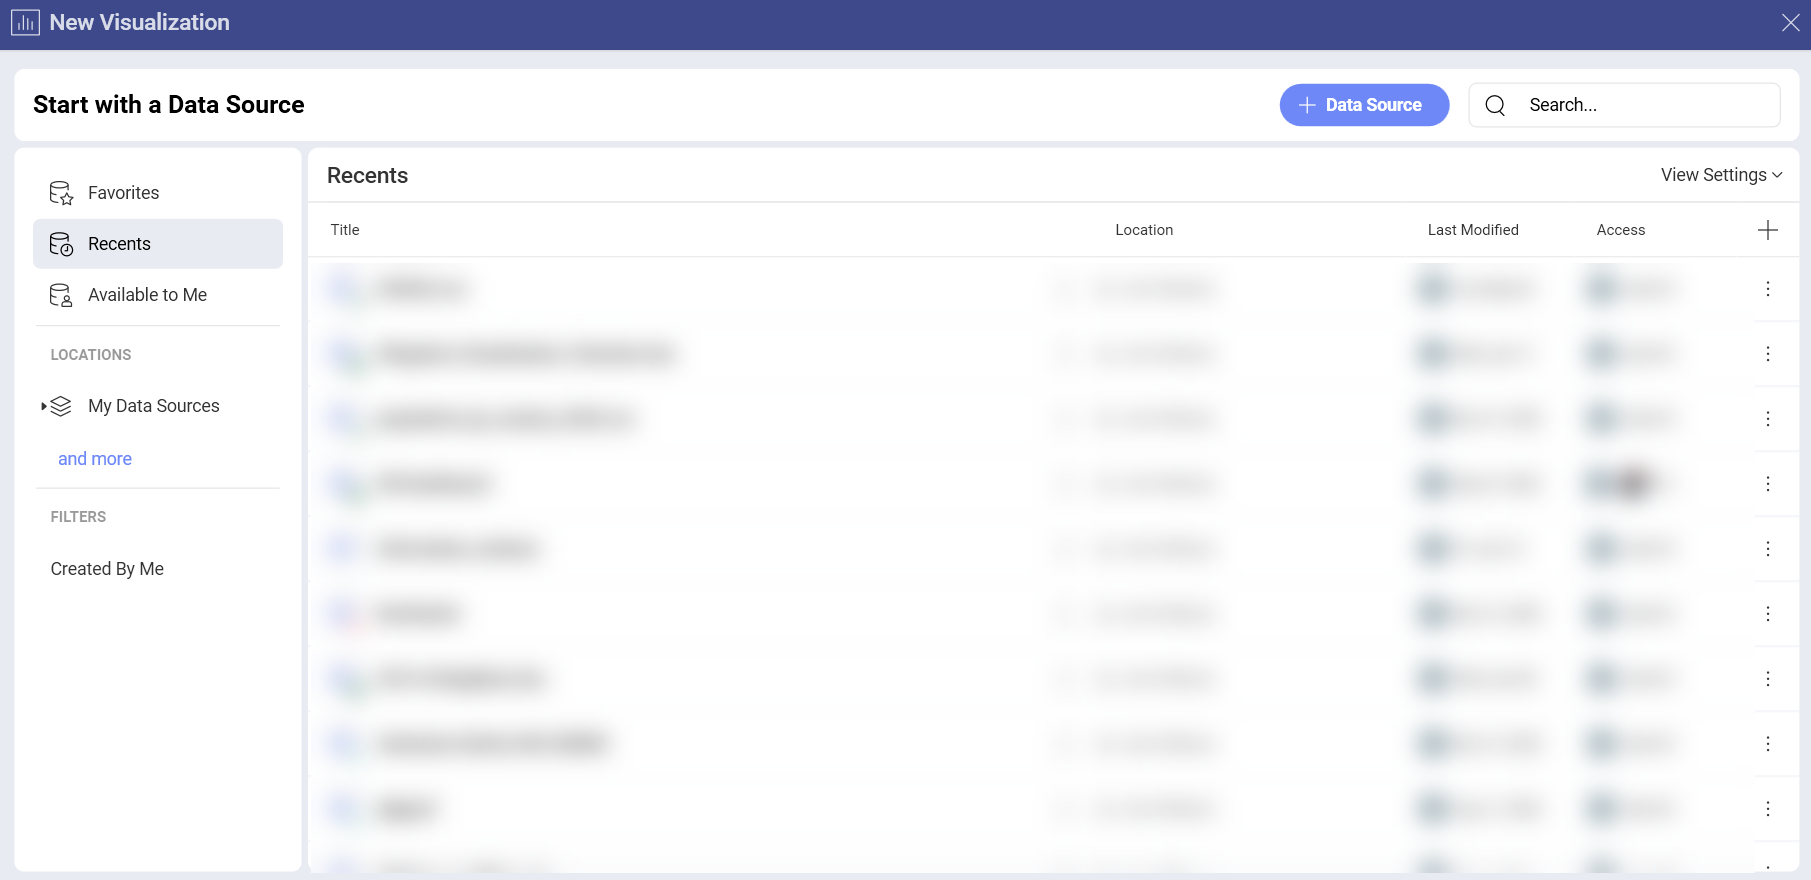
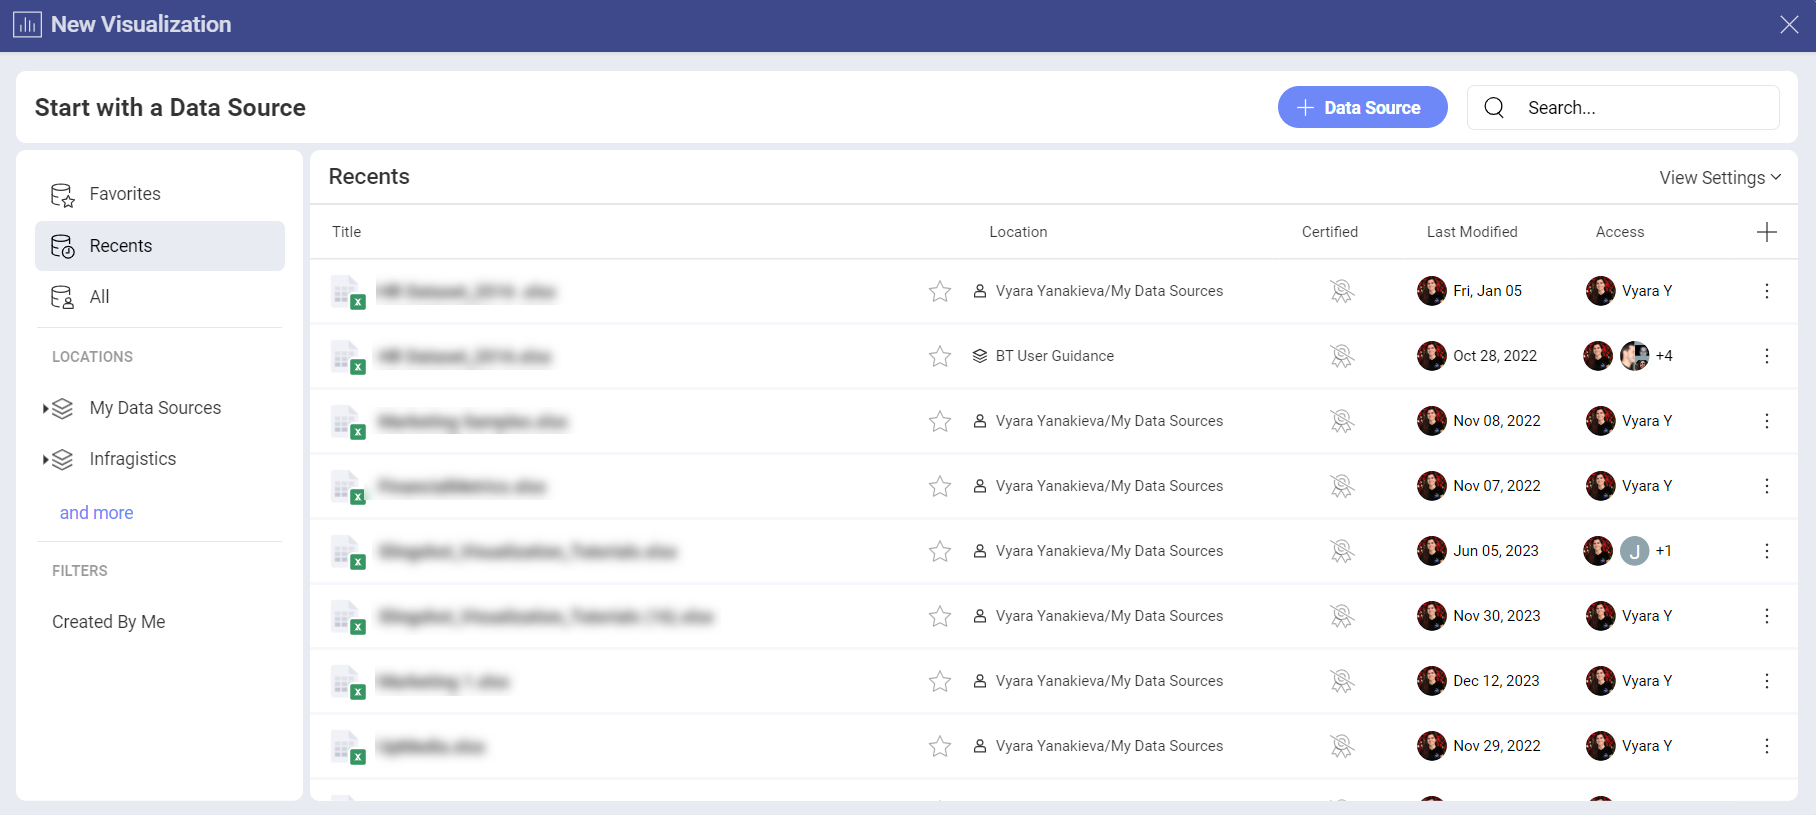
minor fixes

diff --git a/docfx/en/docs/analytics/filters/dashboard-filters-properties.md b/docfx/en/docs/analytics/filters/dashboard-filters-properties.md
@@ -17,7 +17,7 @@ In order to add a new dashboard filter:
     can configure or change it using the overflow menu next to the data
     source's name.
 
-  <img src="images/dashboard-filter-data-source-menu.png" alt="Selecting Dashboard Filter data source menu" class="responsive-img" width="80%"/>
+  <img src="images/dashboard-filter-data-source-menu.png" alt="Selecting Dashboard Filter data source menu" class="responsive-img" width="90%"/>
 
 3.  Choose which dataset to use as a dashboard filter and click/tap on
     *Select Data*.
@@ -26,7 +26,7 @@ In order to add a new dashboard filter:
 
 You will be able to change the following settings for the filter:
 
-<img src="images/dashboard-filter-dialog.png" alt="Dashboard Filter settings menu" class="responsive-img" width="50%">
+<img src="images/dashboard-filter-dialog.png" alt="Dashboard Filter settings menu" class="responsive-img" width="60%">
 
 - Title. The title for the dashboard filter, which will be displayed right under the dashboard title. By default, this is the name of the field that will be used as a filter.</th>
 
@@ -58,13 +58,13 @@ Analytics supports the selection of multiple dashboard filter values
 simultaneously. This is meant to enable side by side comparison between different elements in a collection. For instance, in the *HR Dashboard* dashboard you can compare the hires and absences over time of different
 offices by enabling multiple selection.
 
-<img src="images/multiple-selection-dashboard-filters.png" alt="Filters multiple selections applied to a dashboard" class="responsive-img" width="45%"/>
+<img src="images/multiple-selection-dashboard-filters.png" alt="Filters multiple selections applied to a dashboard" class="responsive-img" width="50%"/>
 
 In order to **enable "Multiple Selection"**, you must switch the
 dashboard to *Edit* mode ⇒ choose *Edit* from the overflow menu of a
 dashboard filter ⇒ *Selection* ⇒ tick *Multiple Selection* checkbox.
 
-<img src="images/multiple-selection-option-dashboard-filter-dialog.png" alt="Enabling dashboard filters multiple selections" class="responsive-img" width="60%"/>
+<img src="images/multiple-selection-option-dashboard-filter-dialog.png" alt="Enabling dashboard filters multiple selections" class="responsive-img" width="90%"/>
 
 <a name='required-selection'></a>
 ## Required Selection
@@ -80,7 +80,7 @@ In order to **enable "Required Selection"**, you must switch the
 dashboard to *Edit* mode ⇒ choose *Edit* from the overflow menu of a
 dashboard filter ⇒ *Selection* ⇒ tick *Required Selection* checkbox.
 
-<img src="images/required-selection-option-filters.png" alt="Enabling dashboard filters required selection" class="responsive-img" width="60%"/>
+<img src="images/required-selection-option-filters.png" alt="Enabling dashboard filters required selection" class="responsive-img" width="90%"/>
 
 <a name='data-filters'></a>
 ## Data Filters
@@ -113,12 +113,12 @@ filter and have the dashboard filter show only the employees in the
 
 3.  Click/tap on *Select a Field* and choose *Office* from the list.
 
-  <img src="images/dashboard-filters-select-data-filter-field.png" alt="Selecting a field for a data filter in the dashboard filter settings menu" class="responsive-img" width="60%"/>
+  <img src="images/dashboard-filters-select-data-filter-field.png" alt="Selecting a field for a data filter in the dashboard filter settings menu" class="responsive-img" width="90%"/>
 
 4.  In the following dialog, select the filter type you want to apply
     (choose *Select Values* for the purposes of this example):
 
-  <img src="images/filter-types.png" alt="Dashboard Filters Filter type option" class="responsive-img" width="60%"/>
+  <img src="images/filter-types.png" alt="Dashboard Filters Filter type option" class="responsive-img" width="90%"/>
 
 5.  Choose *London, UK* from the list and click/tap on the *Create Filter*
     button.
@@ -127,7 +127,7 @@ filter and have the dashboard filter show only the employees in the
 
 There are some specifics when configuring an MS Analysis dashboard filter.
 
-<img src="images/microsoft-analysis-services-dashboard-filter.png" alt="Dashboard Filter dialog when configuring an SSRS filter" class="responsive-img" width="60%"/>
+<img src="images/microsoft-analysis-services-dashboard-filter.png" alt="Dashboard Filter dialog when configuring an SSRS filter" class="responsive-img" width="90%"/>
 
  1. **Displayed Element** - you can select a *Dimension*, *Hierarchy* or *Level* data field to display dashboard filter values, but not a *Measure* data field. 
 

diff --git a/docfx/en/docs/certifications.md b/docfx/en/docs/certifications.md
@@ -14,7 +14,7 @@ If you are a user with a personal account, you will not be able to use certifica
 
 Among the data sources or dashboards of a workspace, you will find both certified and uncertified ones. When a data source or dashboard is certified, you will see a golden, silver or bronze colored badge next to it (see the screenshot below). 
 
-<img src="../images/certified-data-source.png" alt="An excel file with a gold badge located in the certified column" class="responsive-img" width="80%"/>
+<img src="../images/certified-data-source.png" alt="An excel file with a gold badge located in the certified column" class="responsive-img" width="90%"/>
 
 If you don't see whether a data source or dashboard is certified or not, select the plus icon <img src="../images/plus-icon-48.png" alt="the plus icon used in Analytics" width="24px" height="24px" /> at the right top of the list. Make sure the box for the *Certified* column is checked.  
 
@@ -23,12 +23,15 @@ If you don't see whether a data source or dashboard is certified or not, select 
 Certification helps users find the data that is recommended and verified by their organization. That's why **certifiers** can be: 
 
 * <img src="../images/organization-icon.png" alt="the org workspace icon" width="24px" height="24px" /> Organization owners.
+
 * Any user who is authorized by an Organization owner
 
 To see who can certify data sources: 
 
 1. Open the Organization workspace settings by selecting the three dots <img src="../images/overflow-icon.png" alt="the plus icon used in Analytics" width="24px" height="24px" /> next to it.
+
 2. Select <img src="../images/settings-icon.png" alt="the plus icon used in Analytics" width="24px" height="24px" />*Organization Settings*. 
+
 3. Go to *Data Catalog*. 
 
 Here you will find the three certification levels, their names and the users, who can certify.
@@ -36,16 +39,20 @@ Here you will find the three certification levels, their names and the users, wh
 If you are an *owner* in the Organization, you can: 
 
 * Assign yourself as a certifier to any certification level.
+
 * Add other users as certifiers - you can assign owners, members, viewers and even users outside of your Organization.
+
 * Rename the certificates. By default, the certification levels are "*gold*", "*silver*" and "*bronze*". You can give them more descriptive names such as "Sales", "Marketing", "RND", etc.  
 
 Users, who are not owners, can request permission to become certifiers. To do this: 
 
 1. Go to the Data Sources list in any workspace or in your **My Analytics**.
+
 2. Select the badge in the *Certified* column of any data source. 
+
 3. Click/tap *Request Permission* (see the screenshot below).
 
-    <img src="../images/not-certified-message.png" alt="The Request permission button for the certificate" class="responsive-img" width="80%" />
+<img src="../images/not-certified-message.png" alt="The Request permission button for the certificate" class="responsive-img" width="90%" />
 
 4. An email will be sent to all Organization owners notifying them that the users asks to be authorized to certify data sources or dashboards. 
 
@@ -54,7 +61,9 @@ Users, who are not owners, can request permission to become certifiers. To do th
 Each data source or dashboard can be certified individually in the workspace where it lives. To certify follow the steps below:
 
 1. Go to the <img src="../images/workspace-icon.png" alt="the workspace icon used in Analytics" width="24px" height="24px" /> workspace where you can find the data source or dashboard. 
+
 2. Select the *Data Sources* or *Dashboards* tab. 
+
 3. Click/tap the <img src="../images/not-certified-icon.png" alt="the data sources icon used in Analytics" width="24px" height="24px" /> badge icon for the data source or dashboard you want to certify and choose a badge from the dropdown menu. 
 
 The certificates are hierarchical. This means that certifiers who are with <img src="../images/gold-badge-icon.png" alt="the gold badge icon used in Analytics" width="24px" height="24px" /> *Gold* will also see the <img src="../images/silver-badge-icon.png" alt="the silver badge icon used in Analytics" width="24px" height="24px" /> *Silver* and <img src="../images/bronze-badge-icon.png" alt="the bronze badge icon used in Analytics" width="24px" height="24px" /> *Bronze* badges available in the dropdown menu. And *Bronze* certifiers will only see the bronze badge available. 

diff --git a/docfx/en/docs/analytics/data-visualizations/fields/calculated-fields/overview.md b/docfx/en/docs/analytics/data-visualizations/fields/calculated-fields/overview.md
@@ -29,11 +29,11 @@ aggregations. This means in order to apply a certain formula, Analytics will go 
 To add a new pre-calculated field, click/tap the **+ button** in the
 *Fields* panel and choose **Calculated Field**:
 
-<img src="images/calculated-field-option.png" alt="Pre-calculated field option" class="responsive-img" width="85%"/>
+<img src="images/calculated-field-option.png" alt="Pre-calculated field option" class="responsive-img" width="90%"/>
 
 The *New Calculated Field* screen will open:
 
-<img src="images/new-calculated-field-dialog.png" alt="New calculated field dialog" class="responsive-img" width="85%"/>
+<img src="images/new-calculated-field-dialog.png" alt="New calculated field dialog" class="responsive-img" width="90%"/>
 
 Here you will need to:
 
@@ -49,7 +49,7 @@ Here you will need to:
 The new pre-calculated field will show up at the bottom of your *Fields*
 list:
 
-<img src="images/new-calculated-field-visualization-example.png" alt="New calculated field shown in the column placeholder and in the visualization" class="responsive-img" width="85%"/>
+<img src="images/new-calculated-field-visualization-example.png" alt="New calculated field shown in the column placeholder and in the visualization" class="responsive-img" width="90%"/>
 
 In the example above, the new calculated field is used with a grid
 visualization where no aggregation is being applied on the data fields.
@@ -70,12 +70,12 @@ To create a post calculated field you will need to:
 1.  Create a visualization (or a *Pivot table*) by adding fields from
     your data source in the *Data editor*.
 
-    <img src="images/post-calculated-field-example.png" alt="Post calculated fields in the Data editor" class="responsive-img" width="85%"/>
+  <img src="images/post-calculated-field-example.png" alt="Post calculated fields in the Data editor" class="responsive-img" width="90%"/>
 
 2.  Click/tap the *F(x)* button next to *Values* to open the *New
     Calculated Field* screen:
 
-    <img src="images/post-calculated-field-new-calculated-field-dialog.png" alt="Post calculated field new calculated field screen" class="responsive-img" width="85%"/>
+  <img src="images/post-calculated-field-new-calculated-field-dialog.png" alt="Post calculated field new calculated field screen" class="responsive-img" width="90%"/>
 
 3.  Give a name to your new calculated field and apply a formula to the
     summarized value(s). Pay attention that the list of *Values*
@@ -89,7 +89,7 @@ the *+* button next to *Values*. Since post-calculated fields are
 created only by using aggregated values, you will first need to select
 an aggregation from the dropdown list to be executed on the data field.
 
-<img src="images/post-calculated-field-new-calculated-field-dialog-adding-fields.png" alt="Adding fields in the calculated field screen" class="responsive-img" width="85%"/>
+<img src="images/post-calculated-field-new-calculated-field-dialog-adding-fields.png" alt="Adding fields in the calculated field screen" class="responsive-img" width="90%"/>
 
 You can also skip *step 1*, create your post-calculated fields first or
 use only post-calculated fields in your visualization.

diff --git a/docfx/en/docs/analytics/data-visualizations/fields/field-filters-rules.md b/docfx/en/docs/analytics/data-visualizations/fields/field-filters-rules.md
@@ -10,7 +10,7 @@ order to do so, you will need to add a field to the **Data Filters**
 placeholder in the lower section of the data editor. Then, select a field
 from the dropdown menu to access the *Data Filter* window.
 
-<img src="images/data-filter-visualization-editor.png" alt="Adding data filter fields list" class="responsive-img" width="70%"/>
+<img src="images/data-filter-visualization-editor.png" alt="Adding data filter fields list" class="responsive-img" width="85%"/>
 
 <a name='empty-values'></a>
 ## Filter Empty Values
@@ -123,5 +123,5 @@ entered in a text box in the same position.
 
 You can filter your *Values* by [aggreggation](https://www.slingshotapp.io/en/help/docs/analytics/data-visualizations/fields/calculated-fields/aggregation). Then this value will appear with the same aggregation in the list of fields in the **Data Filters** placeholder.
 
-<img src="images/data-filters-values-list.png" alt="Data Filters Filtering in the Data Editor" class="responsive-img" width="80%"/>
+<img src="images/data-filters-values-list.png" alt="Data Filters Filtering in the Data Editor" class="responsive-img" width="85%"/>
 

diff --git a/docfx/en/docs/analytics/data-visualizations/visualization-types/combo-charts.md b/docfx/en/docs/analytics/data-visualizations/visualization-types/combo-charts.md
@@ -17,7 +17,7 @@ E.g., as shown above, a combo chart can display countries' total
 population as well as the young population to show the relationship
 between them.
 
-<img src="images/combo-chart-selection.png" alt="Selecting the Combo Chart visualization in Slingshot" class="responsive-img" width="75%"/>
+<img src="images/combo-chart-selection.png" alt="Selecting the Combo Chart visualization in Slingshot" class="responsive-img" width="85%"/>
 
 After selecting your data source and the *Combo* visualization, by
 default you start with a column chart and a line chart combined. As

diff --git a/docfx/en/docs/analytics/dashboards/exporting-dashboards/export-as-powerpoint-presentation.md b/docfx/en/docs/analytics/dashboards/exporting-dashboards/export-as-powerpoint-presentation.md
@@ -13,7 +13,7 @@ To export a dashboard as a PowerPoint presentation, you need to:
 
 2. Choose **Export** and then click/tap on **PowerPoint**. 
 
- <img src="../images/export-as-powerpoint-option.png" alt="Powerpoint option in the list of export formats" class="responsive-img" width="60%"/>
+ <img src="../images/export-as-powerpoint-option.png" alt="Powerpoint option in the list of export formats" class="responsive-img" width="85%"/>
 
 3. The *Export Dashboard* dialog will open, allowing you to set up your
 presentation and annotate specific slides.

diff --git a/docfx/en/docs/analytics/filters/connecting-dashboard-filters-visualization.md b/docfx/en/docs/analytics/filters/connecting-dashboard-filters-visualization.md
@@ -18,7 +18,7 @@ two ways:
     individual visualization, even after the dashboard filter has been
     created.
 
-<img src="images/visualization-editor-dashboard-filter.png" alt="dashboard filters in the visualization editor" class="responsive-img" width="80%"/>
+<img src="images/visualization-editor-dashboard-filter.png" alt="dashboard filters in the visualization editor" class="responsive-img" width="85%"/>
 
 In both cases, binding is defined by adding rules that link a field in
 the dashboard filter dataset with a corresponding field in the

diff --git a/docfx/en/docs/analytics/data-visualizations/visualization-types/pivot-table.md b/docfx/en/docs/analytics/data-visualizations/visualization-types/pivot-table.md
@@ -10,7 +10,7 @@ The Pivot Table visualization allows users to aggregate information by
 dropping fields in the corresponding placeholders of the *Data*
 sections.
 
-<img src="images/pivot-table.png" alt="Pivot Table Visualization" class="responsive-img"/>
+<img src="images/pivot-table.png" alt="Pivot Table Visualization" class="responsive-img" width="90%"/>
 
 When a field is added to the rows, columns, or values data editor
 placeholders, selecting the field displays the summarized settings of
